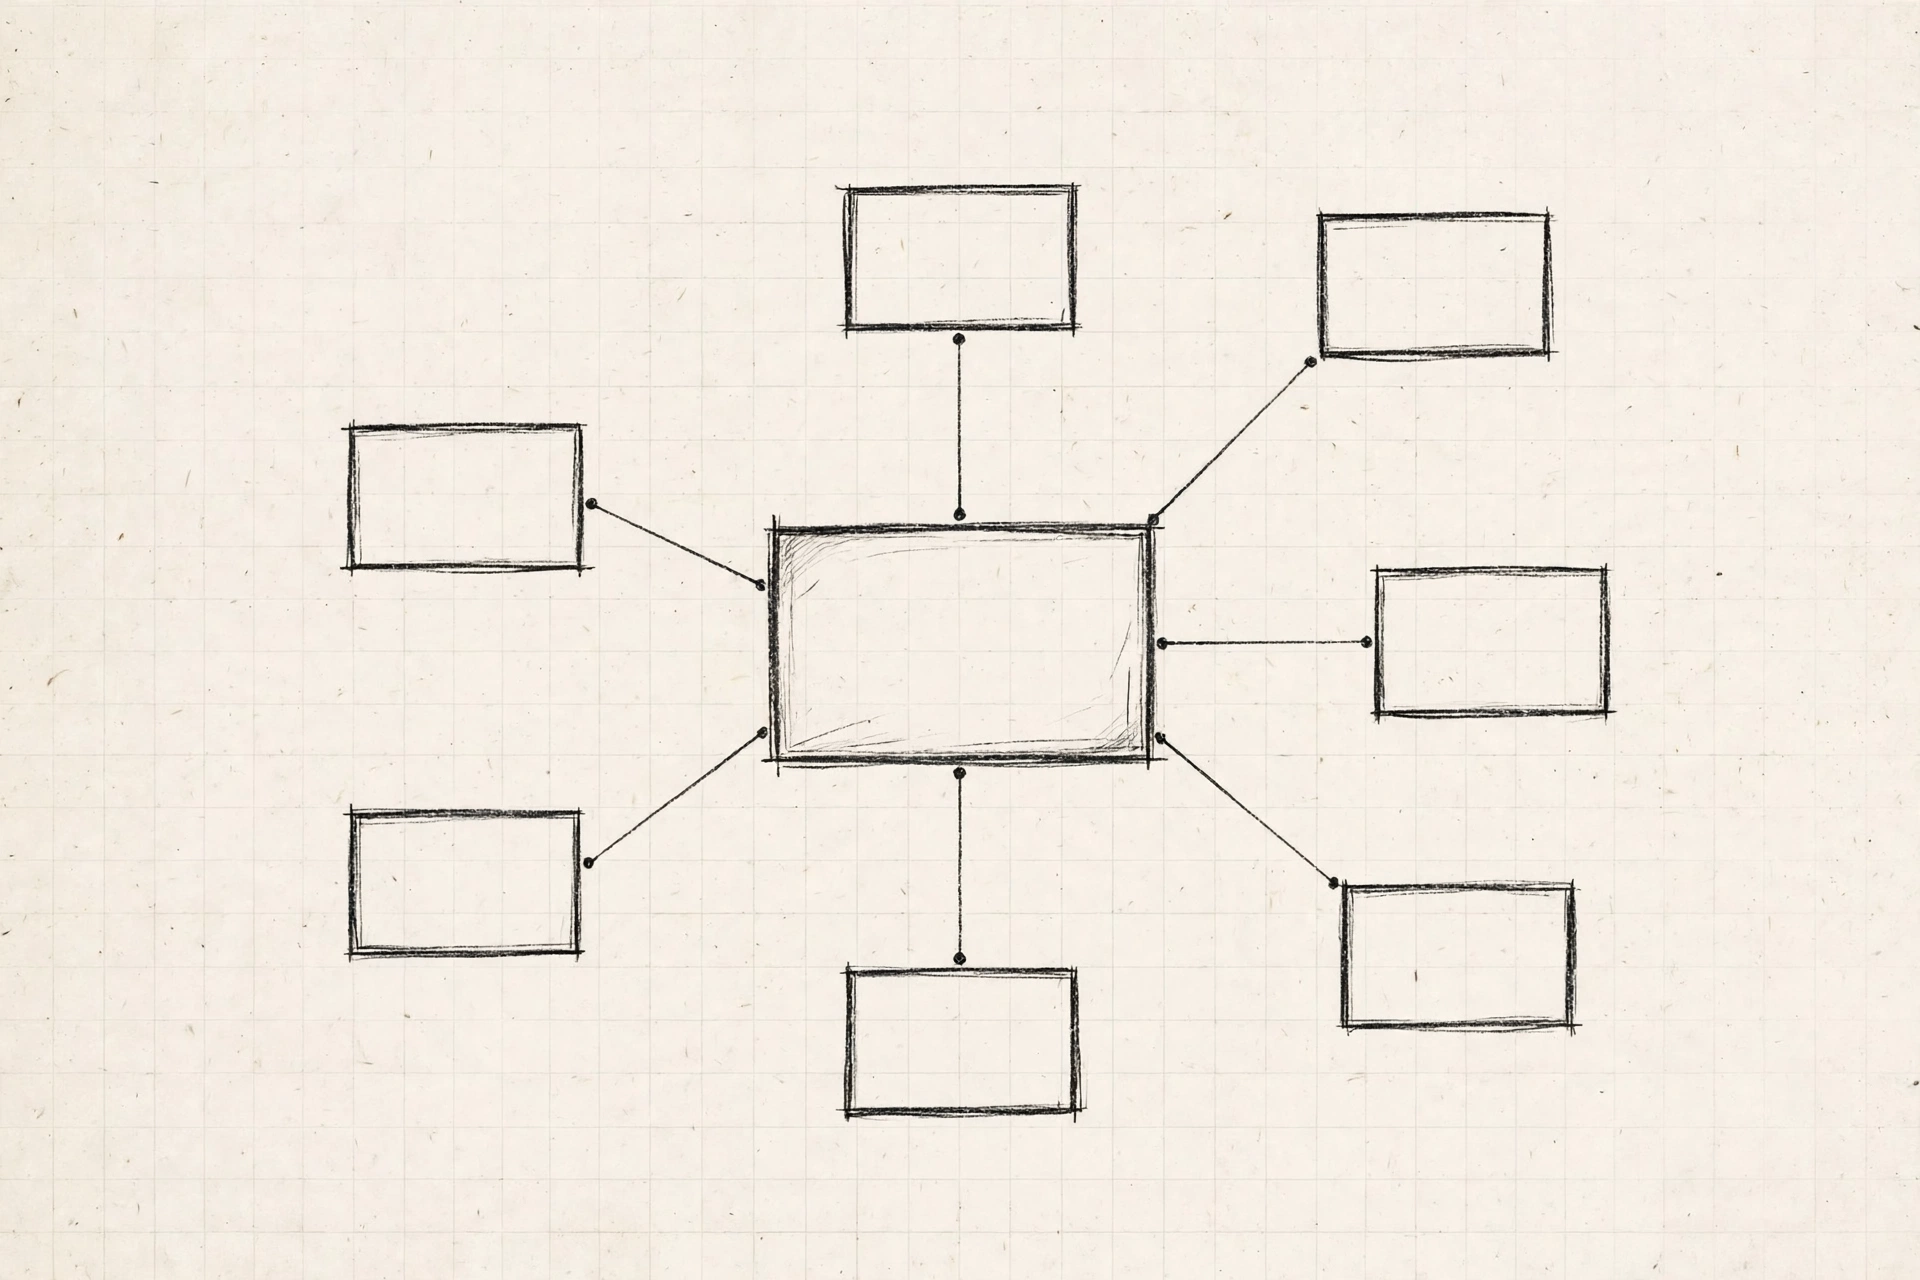
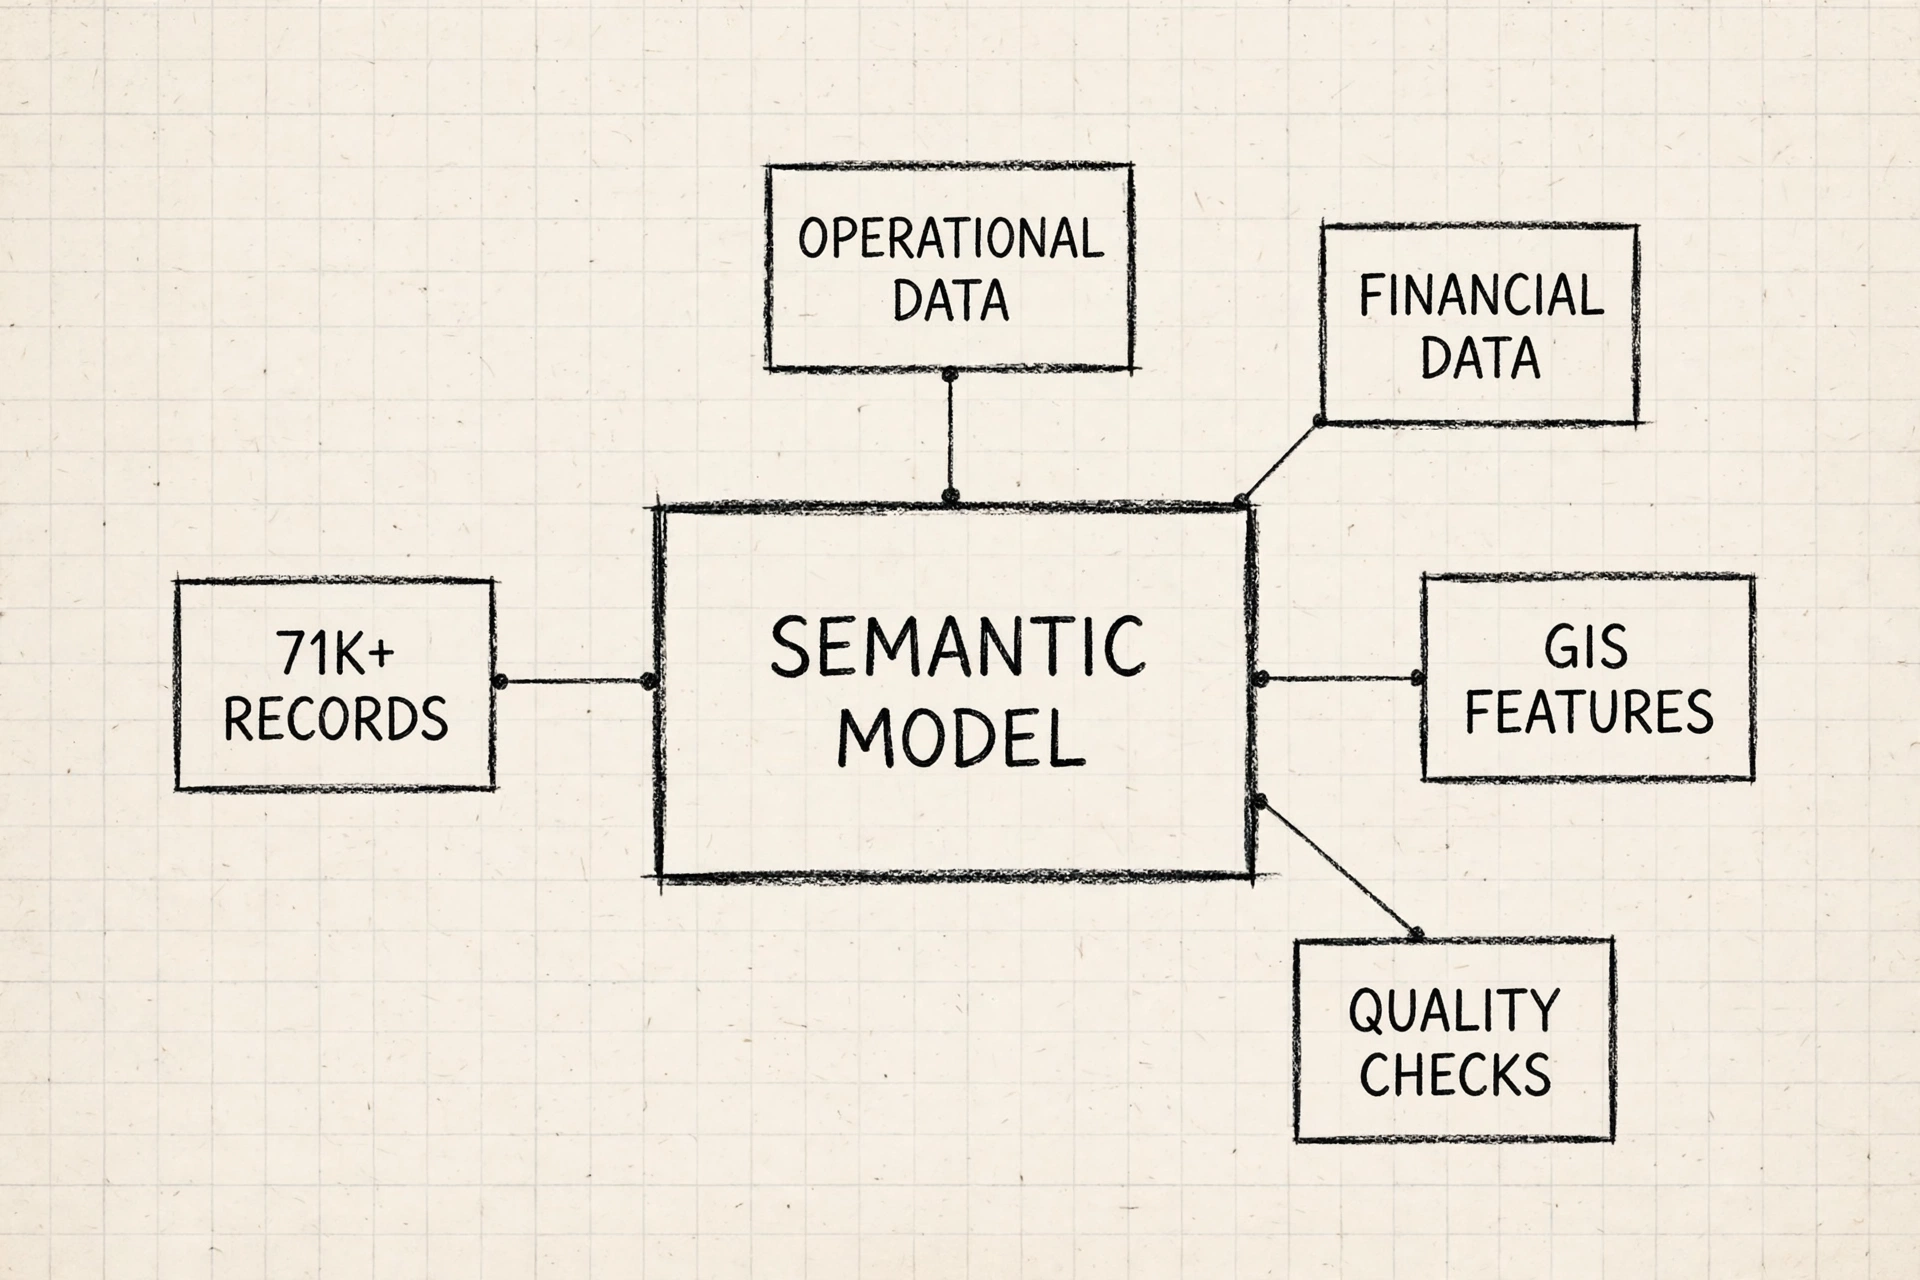
Hero: labeled star schema visual; remove metric bar (stats moved into diagram)

Changed region(s): [[0.0625, 0.125, 0.9375, 0.9062], [0.6562, 0.1562, 0.875, 0.375], [0.4375, 0.75, 0.5625, 0.875]]

diff --git a/index.html b/index.html
@@ -378,10 +378,6 @@
 
       <div class="hero-visual has-img" aria-label="Abstract data network illustration">
         <img class="hero-img" src="hero-visual.webp" alt="Abstract data network illustration">
-        <div class="metric-bar">
-          <div class="metric"><strong>71K+</strong><span>land & facility records optimized for analysis</span></div>
-          <div class="metric"><strong>20h</strong><span>weekly manual reporting eliminated</span></div>
-        </div>
       </div>
     </div>
 
